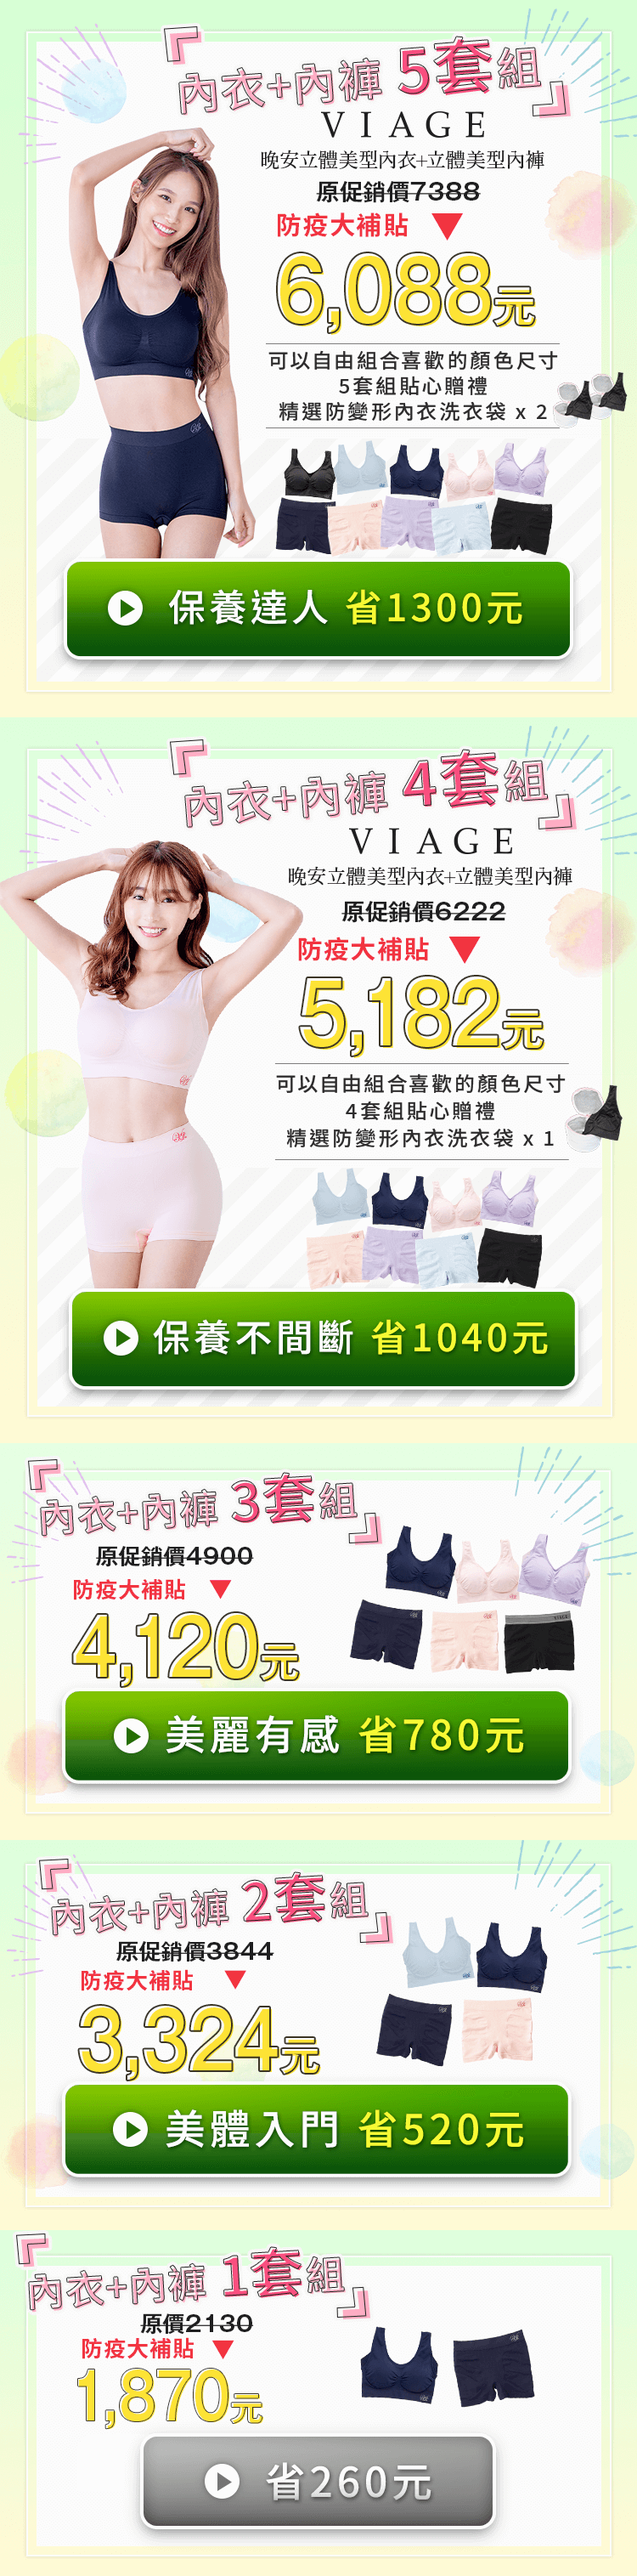
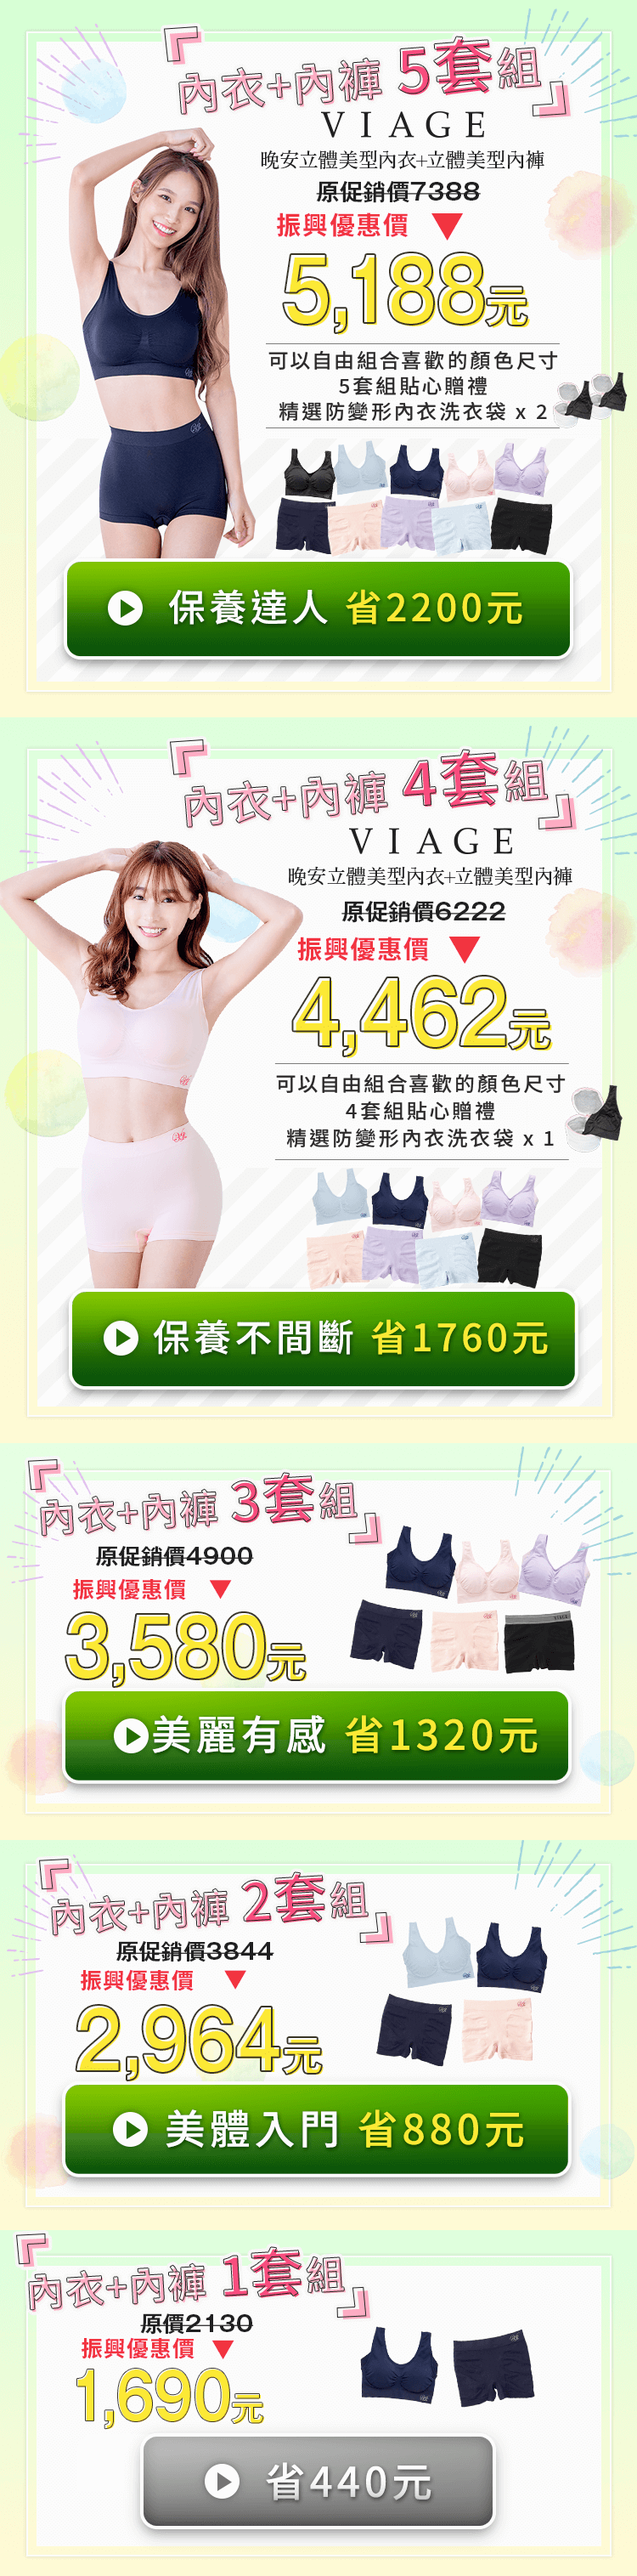
20210813_new sale

diff --git a/index.html b/index.html
@@ -2,7 +2,7 @@
 <html>
 
 <head>
-    <title>Viage防疫現金折扣省1300｜整套保養一次到位👙自信走出門</title>
+    <title>Viage搶先推出振興$2200｜整套保養一次到位👙限時即刻使用</title>
     <meta http-equiv="Content-Type" content="text/html; charset=utf-8">
     <!-- 編集削除禁止※スマホ最適化※編集削除禁止 -->
     <meta name="viewport" content="width=device-width, initial-scale=1, maximum-scale=1, user-scalable=yes" />
